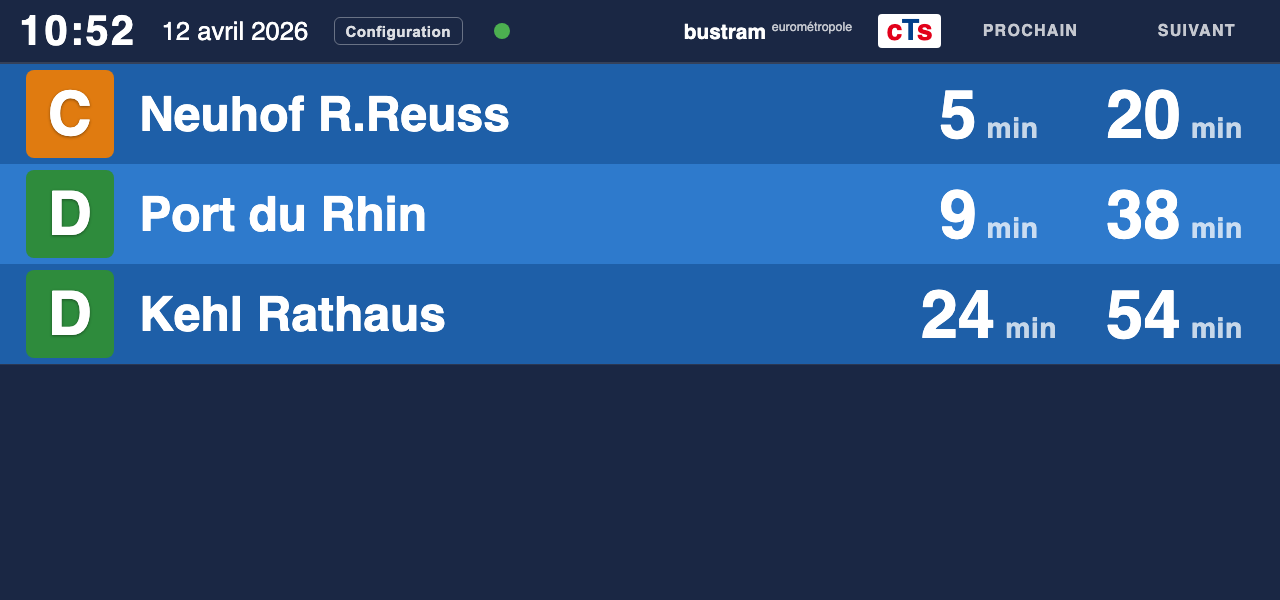
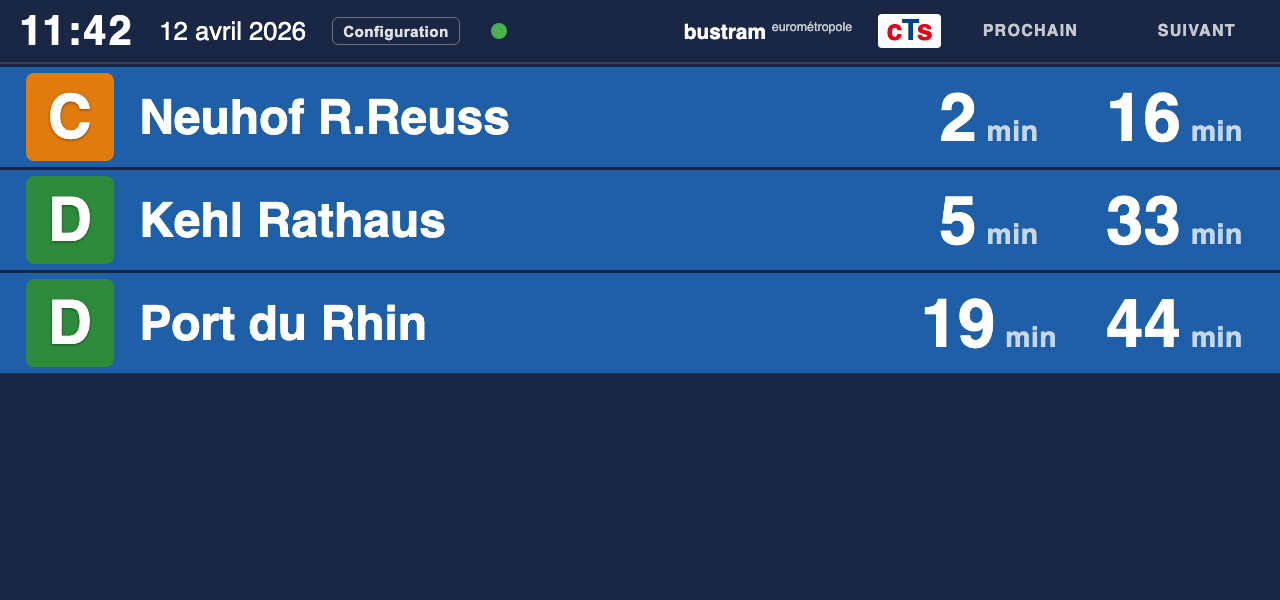
Rework HMI rows to match original CTS departure board style
Three visual changes to static/style.css based on pixel-accurate
measurement of the reference CTS_original.jpg:

1. Row colors: remove alternating dark/light (too high contrast);
   replace with subtle alternation — odd #2474cc / even #1966b8 —
   matching the barely-perceptible shade difference on the real board.

2. Row separators: remove gap/padding-top on #departures so rows are
   flush with no horizontal line between them, matching the original.

3. Vertical column separators: add border-left: 3px solid var(--header-bg)
   on .time-cell with align-self: stretch so the dark navy line spans
   the full row height, dividing destination / PROCHAIN / SUIVANT.

4. Column width and padding: widen time columns from 13vw to 20vw and
   increase internal padding from 1.5vw to 4.5vw (measured ~37% of
   column width from the reference image) so numbers have the same
   breathing room as on the real board.

Updated screenshots reflect the corrected layout.

diff --git a/static/style.css b/static/style.css
@@ -17,8 +17,8 @@
     --line-default: #546e7a;
 
     --header-bg: #1a2744;
-    --row-dark:  #1e5fa8;
-    --row-light: #2e7acc;
+    --row-dark:  #1966b8;   /* slightly darker row  — matches reference */
+    --row-light: #2474cc;   /* slightly lighter row — matches reference */
     --text:      #ffffff;
     --subtext:   rgba(255,255,255,0.75);
 }
@@ -108,7 +108,7 @@ html, body {
 }
 
 .col-label {
-    min-width: clamp(60px, 10vw, 130px);
+    min-width: clamp(100px, 20vw, 220px);
     text-align: center;
 }
 
@@ -119,14 +119,17 @@ html, body {
     flex-direction: column;
     overflow: hidden;
     flex-shrink: 1;   /* Can give space back to siblings if necessary */
+    /* No gap — rows are flush, no horizontal separator */
 }
 
 .departure-row {
     display: grid;
-    grid-template-columns: auto 1fr clamp(80px, 13vw, 160px) clamp(80px, 13vw, 160px);
+    grid-template-columns: auto 1fr clamp(100px, 20vw, 220px) clamp(100px, 20vw, 220px);
     align-items: center;
-    gap: clamp(0.6rem, 2vw, 2rem);
-    padding: 0 clamp(0.75rem, 2vw, 2rem);
+    /* No column-gap — vertical separators are drawn as border-left on time cells */
+    column-gap: 0;
+    row-gap: 0;
+    padding: 0 0 0 clamp(0.75rem, 2vw, 2rem);
     /* ~15 vh per row → 3 rows ≈ 45 vh, leaving ~half screen for the footer */
     height: clamp(100px, 15vh, 150px);
     flex-shrink: 0;   /* Never compress a row */
@@ -140,8 +143,9 @@ html, body {
     min-height: 0;
 }
 
-.departure-row:nth-child(odd)  { background: var(--row-dark); }
-.departure-row:nth-child(even) { background: var(--row-light); }
+/* Alternating rows — subtle lightness difference, no border between them */
+.departure-row:nth-child(odd)  { background: var(--row-light); }
+.departure-row:nth-child(even) { background: var(--row-dark); }
 
 /* ── Line badge ── */
 .line-badge {
@@ -156,6 +160,8 @@ html, body {
     color: white;
     flex-shrink: 0;
     text-shadow: 0 1px 3px rgba(0,0,0,0.4);
+    /* Space badge away from destination (replaces the removed column-gap) */
+    margin-right: clamp(0.6rem, 2vw, 2rem);
 }
 
 /* ── Destination ── */
@@ -177,6 +183,12 @@ html, body {
     align-items: baseline;
     justify-content: center;
     gap: 0.15em;
+    /* Vertical column separator — same dark navy as the header */
+    border-left: 3px solid var(--header-bg);
+    /* ~37% of column width on each side, matching the reference board */
+    padding: 0 clamp(1.5rem, 4.5vw, 5rem);
+    align-self: stretch;        /* border spans full row height */
+    align-items: center;
 }
 
 .time-cell .unit {
